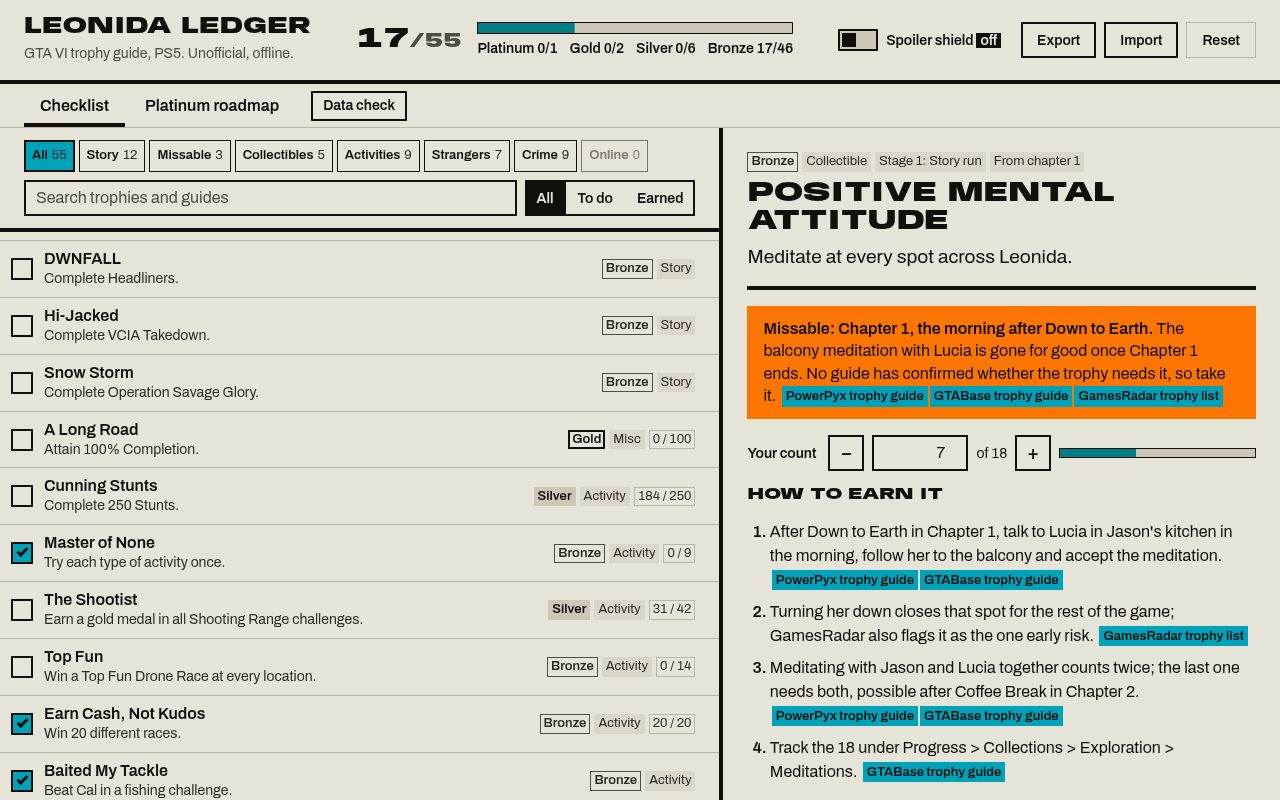
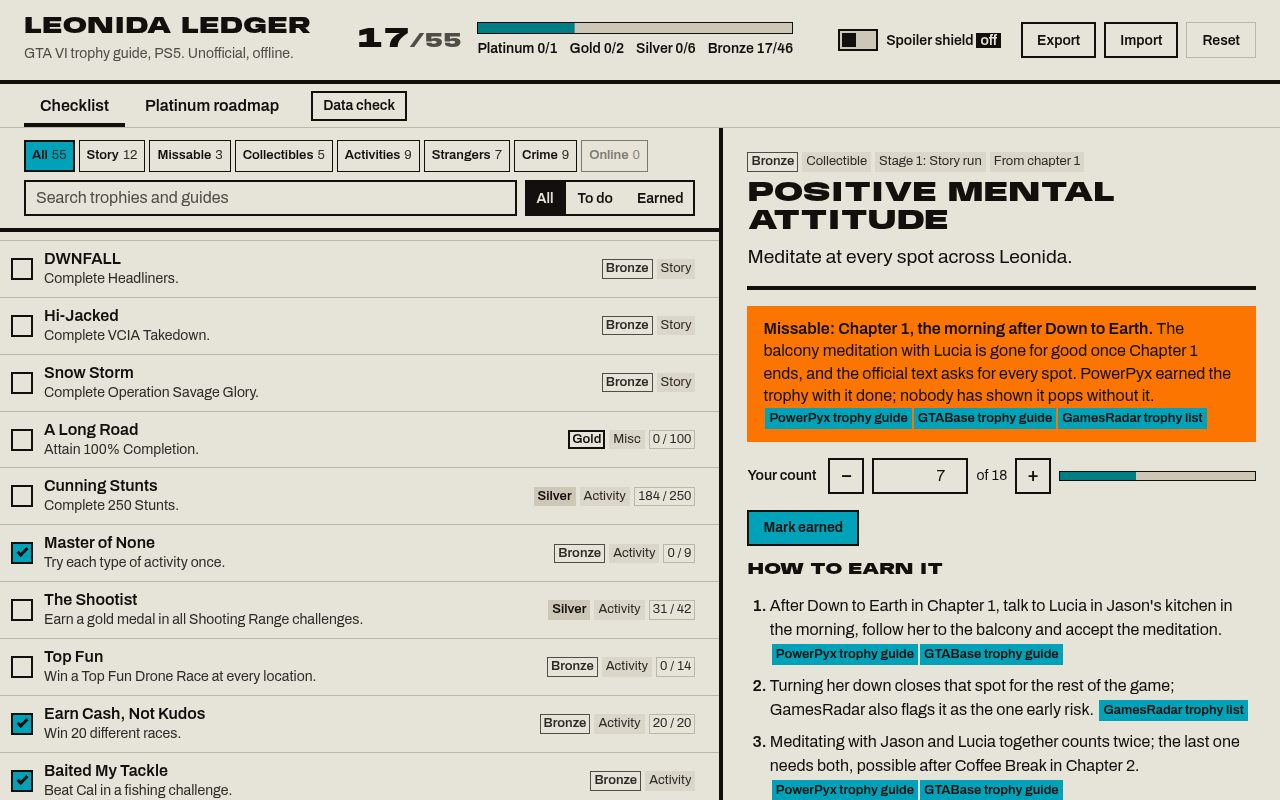
Apply critic fixes: Mark earned above the guide, a missable note that matches its label, larger data check type, tabs wrap on phones; README describes verdicts and sources

Changed region(s): [[0.5625, 0.4375, 1.0, 1.0]]

diff --git a/app/style.css b/app/style.css
@@ -157,10 +157,10 @@ input[type="search"]::placeholder { color: var(--color-muted); }
 .side-head { display: flex; align-items: center; justify-content: space-between; gap: var(--space-sm); padding-bottom: var(--space-sm); border-bottom: var(--rule-bar) solid var(--color-ink); }
 .side-title { font-size: var(--text-xl); }
 .side-title:focus { outline: none; }
-.check-verdict { font-family: var(--font-display); font-weight: 900; font-stretch: 150%; text-transform: uppercase; font-size: var(--text-lg); line-height: 1.1; padding: var(--space-xs) var(--space-sm); background: var(--color-accent); }
+.check-verdict { font-family: var(--font-display); font-weight: 900; font-stretch: 150%; text-transform: uppercase; font-size: var(--text-xl); line-height: 1.1; padding: var(--space-xs) var(--space-sm); background: var(--color-accent); }
 .check-verdict.is-off { background: var(--color-error); color: var(--color-paper); }
-.check-sum { font-family: var(--font-display); font-weight: 900; font-stretch: 150%; font-size: var(--text-xl); font-variant-numeric: tabular-nums; line-height: 1; }
-.check-table { width: 100%; border-collapse: collapse; font-size: var(--text-sm); font-variant-numeric: tabular-nums; }
+.check-sum { font-family: var(--font-display); font-weight: 900; font-stretch: 150%; font-size: var(--text-2xl); font-variant-numeric: tabular-nums; line-height: 1; }
+.check-table { width: 100%; border-collapse: collapse; font-size: var(--text-md); font-variant-numeric: tabular-nums; }
 .check-table th, .check-table td { padding: var(--space-2xs) var(--space-xs) var(--space-2xs) 0; border-bottom: var(--rule-hair) solid var(--color-rule); text-align: left; }
 .check-table thead th { font-size: var(--text-xs); color: var(--color-ink-2); font-weight: 600; border-bottom: 2px solid var(--color-ink); }
 .check-table tbody th { font-weight: 600; }
@@ -246,6 +246,9 @@ input[type="search"]::placeholder { color: var(--color-muted); }
   .list-pane { border-right: 0; }
   .rows { max-height: 70vh; }
   .toolbar-row { flex-wrap: wrap; }
+  .tabs { height: auto; flex-wrap: wrap; padding-block: var(--space-2xs); }
+  .tabs [role="tab"] { min-height: 40px; }
+  .nav-check { margin-left: 0; }
   .tally-side { min-width: 0; }
   .row { grid-template-columns: 44px minmax(0, 1fr); padding-right: var(--space-md); }
   .row-meta { grid-column: 2; justify-content: flex-start; max-width: none; padding-bottom: var(--space-xs); }

diff --git a/app/js/checklist.js b/app/js/checklist.js
@@ -104,6 +104,10 @@ export function renderDetail(root, t, progress, stages, on) {
       el('button', { type: 'button', class: 'btn btn-sq', 'aria-label': 'Increase', onclick: () => on.count(t, v + step) }, '+'),
       el('span', { class: 'meter', style: `--fill:${(v / t.count).toFixed(3)}` })));
   }
+  // Mark earned sits above the guide so it stays in view however long the steps run.
+  parts.push(el('div', { class: 'detail-actions' },
+    el('button', { type: 'button', class: `btn ${earned ? '' : 'btn-primary'}`, onclick: () => on.earn(t.name, !earned) }, earned ? 'Mark not earned' : 'Mark earned'),
+    earned ? el('span', { class: 'earned-at' }, `Earned ${new Date(progress.earned[t.name]).toLocaleDateString('en-GB', { day: 'numeric', month: 'short', year: 'numeric' })}`) : null));
   parts.push(el('h3', { class: 'guide-title' }, 'How to earn it'));
   parts.push(el('ol', { class: 'steps' }, t.steps.map((s) => el('li', {}, s.text, ' ', ...citeChips(s.src, t.sources)))));
   parts.push(el('div', { class: 'sources' },
@@ -111,8 +115,5 @@ export function renderDetail(root, t, progress, stages, on) {
     t.sources.length
       ? el('ul', {}, t.sources.map((s) => el('li', {}, el('a', { href: s.url, target: '_blank', rel: 'noopener noreferrer' }, s.name), el('span', { class: 'src-url' }, ` ${new URL(s.url).hostname.replace(/^www\./, '')}`))))
       : el('p', {}, 'No public guide covers this trophy yet, so the steps above say only what its official description implies.')));
-  parts.push(el('div', { class: 'detail-actions' },
-    el('button', { type: 'button', class: `btn ${earned ? '' : 'btn-primary'}`, onclick: () => on.earn(t.name, !earned) }, earned ? 'Mark not earned' : 'Mark earned'),
-    earned ? el('span', { class: 'earned-at' }, `Earned ${new Date(progress.earned[t.name]).toLocaleDateString('en-GB', { day: 'numeric', month: 'short', year: 'numeric' })}`) : null));
   root.replaceChildren(...parts);
 }

diff --git a/README.md b/README.md
@@ -9,9 +9,11 @@
 - **Checklist.** Every trophy has its official name, description and grade. Progress (earned with timestamps, counters such as 184/250 stunts) is saved in `localStorage`.
 - **Filters.** Story, Missable, Collectibles, Activities, Strangers and Crime. The Online filter shows 0, because the official list has no online trophies. There is also a progress filter (all, to do, earned) and search.
 - **Spoiler shield.** It is on by default and saved. Every unearned story trophy and every trophy PlayStation hides (28) shows only "Hidden trophy", its grade and kind, with its guide collapsed. That holds in search and in the roadmap too. Each has a Reveal button, and marking a trophy earned reveals it.
-- **Cited guides.** Every step of every guide is written in our own words, with its source linked beside it (PowerPyx, PSNProfiles, GTABase, PSN 100%, GAMES.GG, HeistAtlas, TrueAchievements, Gamer Social Club). All 55 guides cite a source.
-- **Platinum roadmap.** Six stages in play order, plus a strip of missable trophies with the warning for each.
-- **Export / Import / Reset.** Export writes a versioned JSON file. Import validates it (rejecting bad JSON and reporting unknown names), then offers Merge or Replace and shows a summary such as "41 earned, 2 ignored". Reset asks for confirmation first.
+- **Cited guides.** Every step of every guide is written in our own words, with its source linked beside it. Every trophy cites at least two independent sites (47 cite two, 8 cite three): PowerPyx, GTABase, PSNProfiles, PSN 100%, GamesRadar, GameSpot, Push Square, PlayStationTrophies.org, TrueAchievements, Gamer Social Club, HeistAtlas and GAMES.GG.
+- **Missable verdicts.** Each of the 55 trophies has a verdict read from its official description and the cited guides, with the chapter it depends on and its sources: 1 missable (Positive Mental Attitude: the Chapter 1 balcony meditation), 2 unconfirmed (Bad Luck, I Guess and The Truth Is Out There) and 52 not missable, each with a one-line reason.
+- **Data check.** A panel beside the list counts `data/trophies.json` live against PlayStation's published totals (55 = 1 platinum + 2 gold + 6 silver + 46 bronze, 28 hidden), plus sources per trophy, missable verdicts and the filter counts.
+- **Platinum roadmap.** Six stages in play order, each sorted by the chapter its trophies open in, with grade and target count (×18, ×100) on every line. Above them sits a missable strip giving each risky trophy's chapter, the reason and its sources.
+- **Export / Import / Reset.** Export writes a versioned JSON file. Import validates it (rejecting bad JSON and reporting unknown names), then shows a summary such as "41 earned, 2 ignored" in a side panel beside the list, with Merge or Replace. Reset asks for confirmation first.
 
 The app is static files in `app/`: no build step, no CDN, no network at run time. Fonts are Anybody and Archivo (SIL OFL), vendored as woff2 files. `main.ts` checks the trophy file and the screenshots, then hands in `app/`, `screenshots/` and `dossier.json`.
 
@@ -19,7 +21,7 @@ The app is static files in `app/`: no build step, no CDN, no network at run time
 
 ```sh
 node serve.ts                      # then open http://localhost:8080 (any static server with app/ as root works)
-node --test test/                  # progress file rules: round trip, bad JSON, unknown names, merge, spoiler search
+node --test test/                  # progress file rules (round trip, bad JSON, unknown names, merge, spoiler search) and the data check
 mkdir -p out && MAKEFUN_OUTPUT_DIR=out node main.ts   # Node 22.18+
 ```
 
